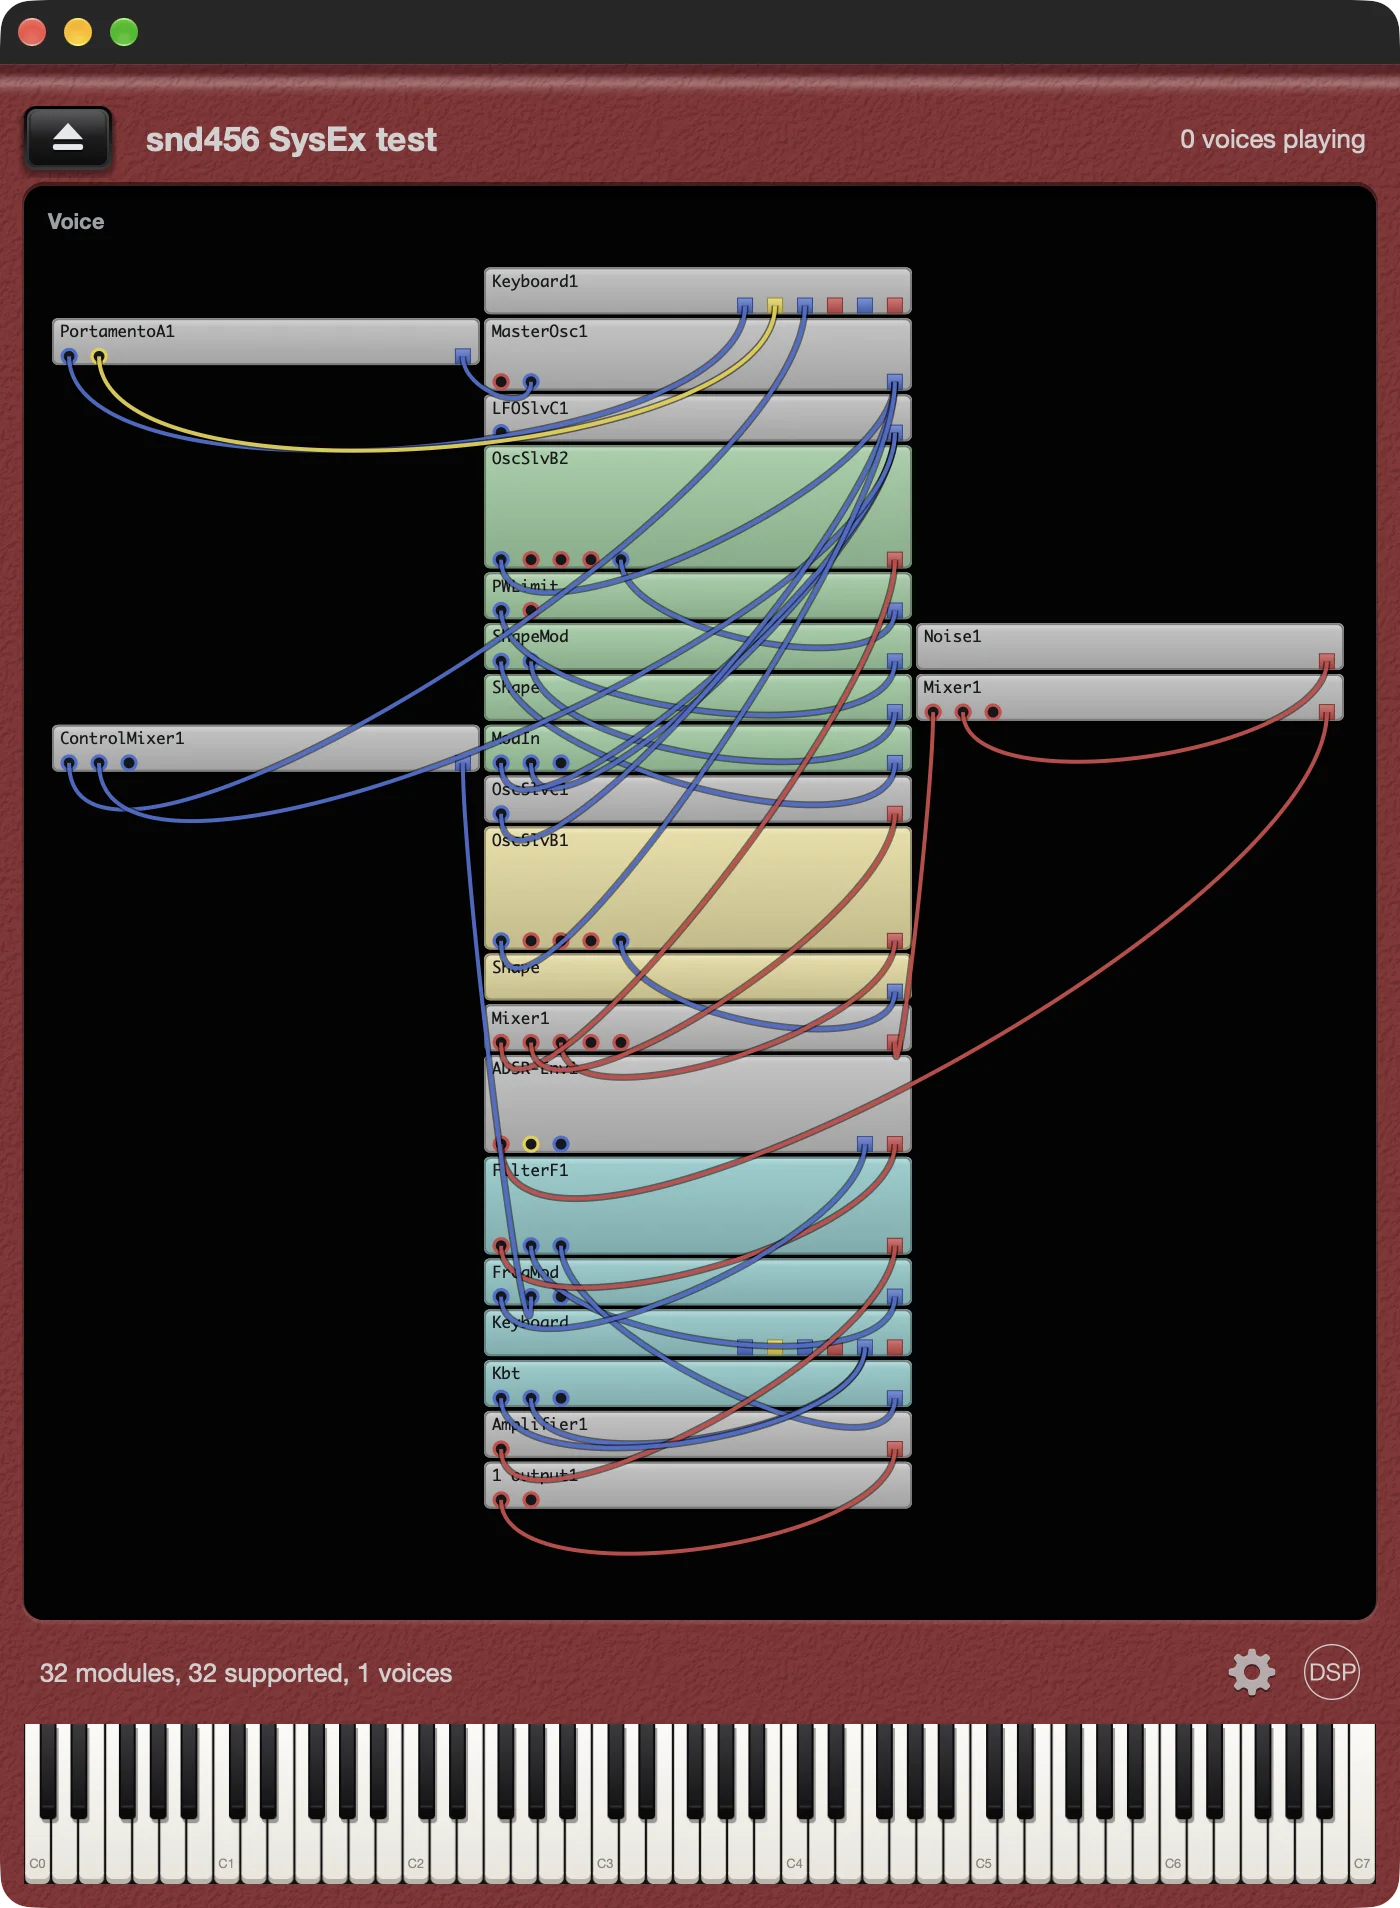
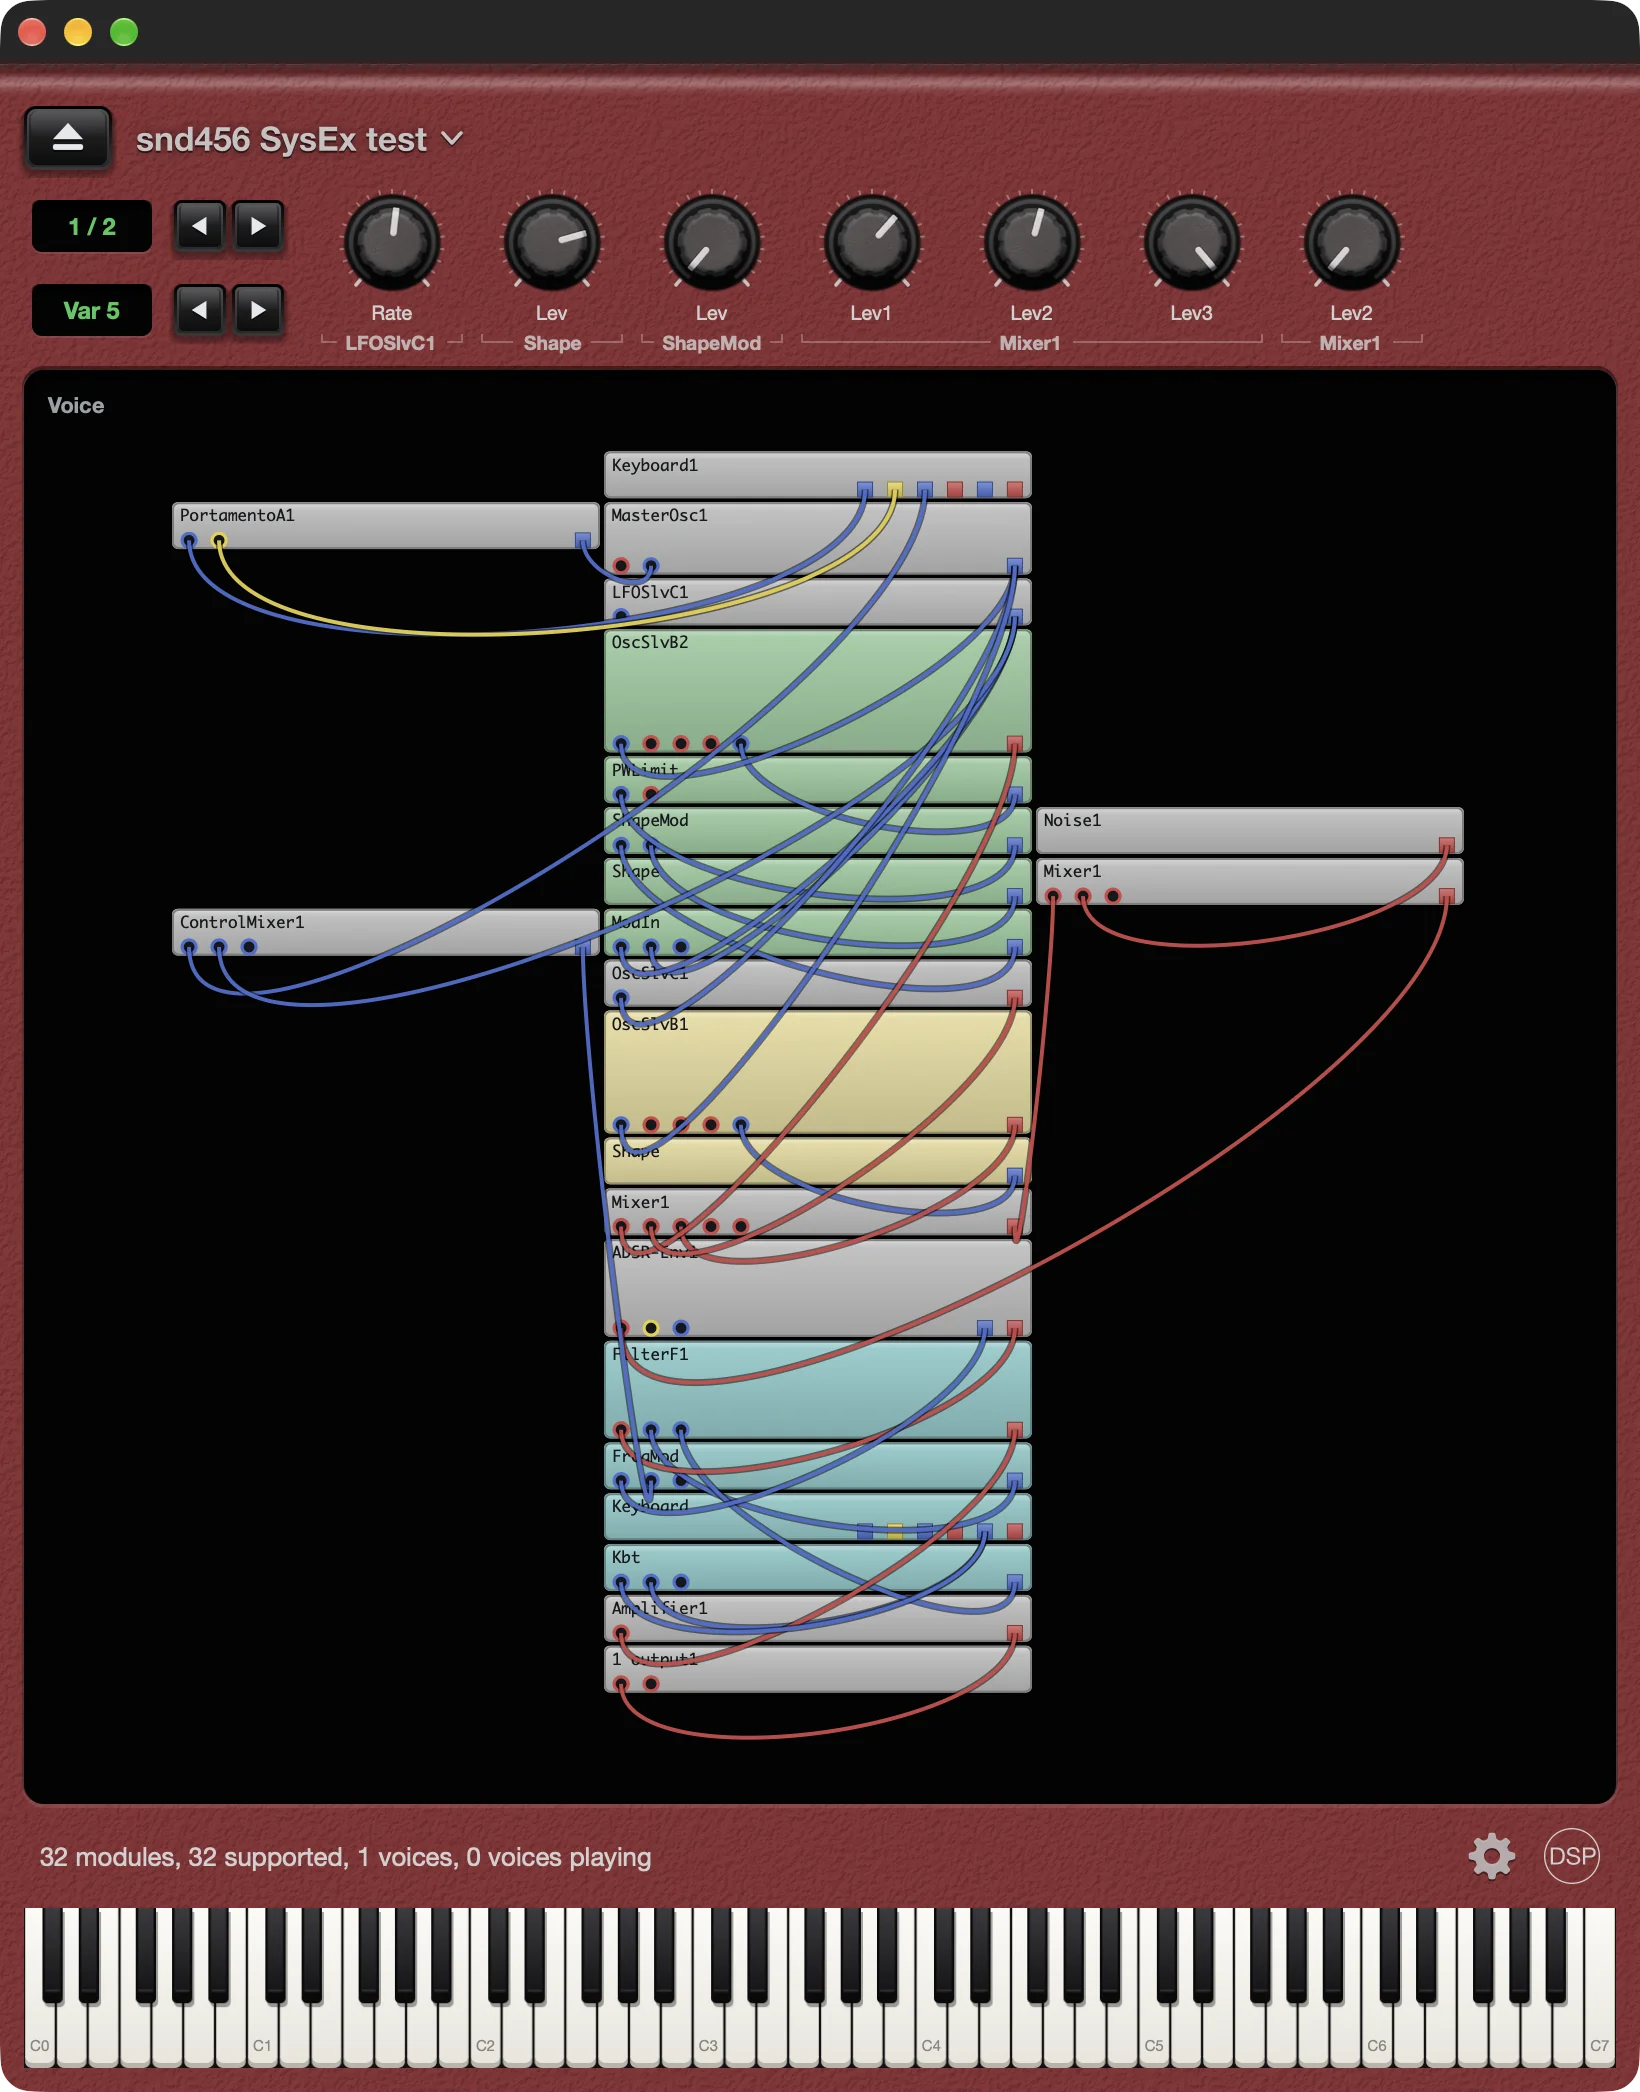
Updated the README and screenshot for 1.0 beta 2

diff --git a/README.md b/README.md
@@ -4,13 +4,13 @@ A standalone app and DAW plugin that plays Nord Modular G2 (`.pch2`) and Nord Mo
 
 ![Modubox](modubox.webp)
 
-[![Download](https://img.shields.io/badge/Download-1.0_beta-blue?style=for-the-badge&logo=github)](https://github.com/reales/Modubox/releases)
+[![Download](https://img.shields.io/badge/Download-1.0_beta_2-blue?style=for-the-badge&logo=github)](https://github.com/reales/Modubox/releases)
 
 | Platform | Formats | Download |
 |---|---|---|
 | macOS 12 or later (Apple silicon and Intel) | Standalone, VST3, AU | `Modubox.dmg` (signed and notarized) |
-| Windows 10 or later, 64-bit | Standalone | `ModuboxWindows.zip` (signed) |
-| Linux x86_64 (ALSA, X11, FreeType) | Standalone | `ModuboxLinux.zip` |
+| Windows 10 or later, 64-bit | Standalone (WASAPI, DirectSound, ASIO) | `ModuboxWindows.zip` (signed) |
+| Linux x86_64 (ALSA, X11, FreeType) | Standalone (ALSA, JACK) | `ModuboxLinux.zip` |
 
 Modubox is free closed-source software by [discoDSP](https://www.discodsp.com/). This repository holds the releases and the issue tracker only.
 
@@ -20,18 +20,27 @@ This is a beta. Each build stops making sound 90 days after it was built. Newer 
 
 ## First steps
 
-1. Windows and Linux: click the gear at the bottom right and pick your audio device and MIDI input. On macOS use Options in the app menu.
-2. Click the eject button at the top left and open a patch, or drop a file on the window. Modubox opens `.pch2`, `.pch`, `.syx` and `.mid` files.
+1. Click the gear at the bottom right, choose Audio/MIDI Settings and pick your audio device and MIDI input. On macOS this is also in Options in the app menu.
+2. Click the eject button at the top left and open a patch, or drop a file on the window. Modubox opens `.pch2`, `.pch`, `.syx` and `.mid` files. Click the patch name to pick another patch from the same folder.
 3. Play from a MIDI keyboard, the on-screen keyboard or the computer keyboard: Z to M and Q to P play two octaves, comma and period move the octave down and up.
 4. Hover over or click a module to highlight its cables.
 
 In a DAW, the patch is saved with the project.
 
+## Knobs, morphs and variations
+
+The knobs assigned in a patch appear above it with their parameter names, grouped by module in signal flow order, 8 to a page. While a knob turns, its value shows in the group label. In a DAW they are 32 automatable parameters named after what they control, plus a Variation parameter.
+
+- Morphs follow their knob or their source: mod wheel, velocity, keyboard, aftertouch, sustain and control pedals, pitch bend.
+- MIDI controller assignments stored in the patch change their parameters.
+- G2 patches show a variation selector. Click its display to jump to a variation. Knob changes are kept per variation, as on the hardware.
+- The gear holds the patch settings (glide, glide time, bend range, patch gain, read from the patch) and Panic, which stops all notes and resets the patch.
+
 ## Modules
 
 All 165 G2 module types load: oscillators (including the DX7 operator and its 32 algorithms), envelopes, LFOs, random generators, filters, the 16-band vocoder, delays, reverb, chorus, flanger, phaser, frequency and pitch shifters, compressor, sequencers, logic, switches, mixers and MIDI input modules. G1 patches have their own module set, tuned by ear and against reference recordings.
 
-Not supported yet: morphs, knob assignments, variation switching, the patch settings (glide, bend range, patch gain) and MIDI out. Outputs 3 and 4 are mixed into 1 and 2.
+Not supported yet: MIDI out. Outputs 3 and 4 are mixed into 1 and 2.
 
 ## Loading patches by SysEx
 
